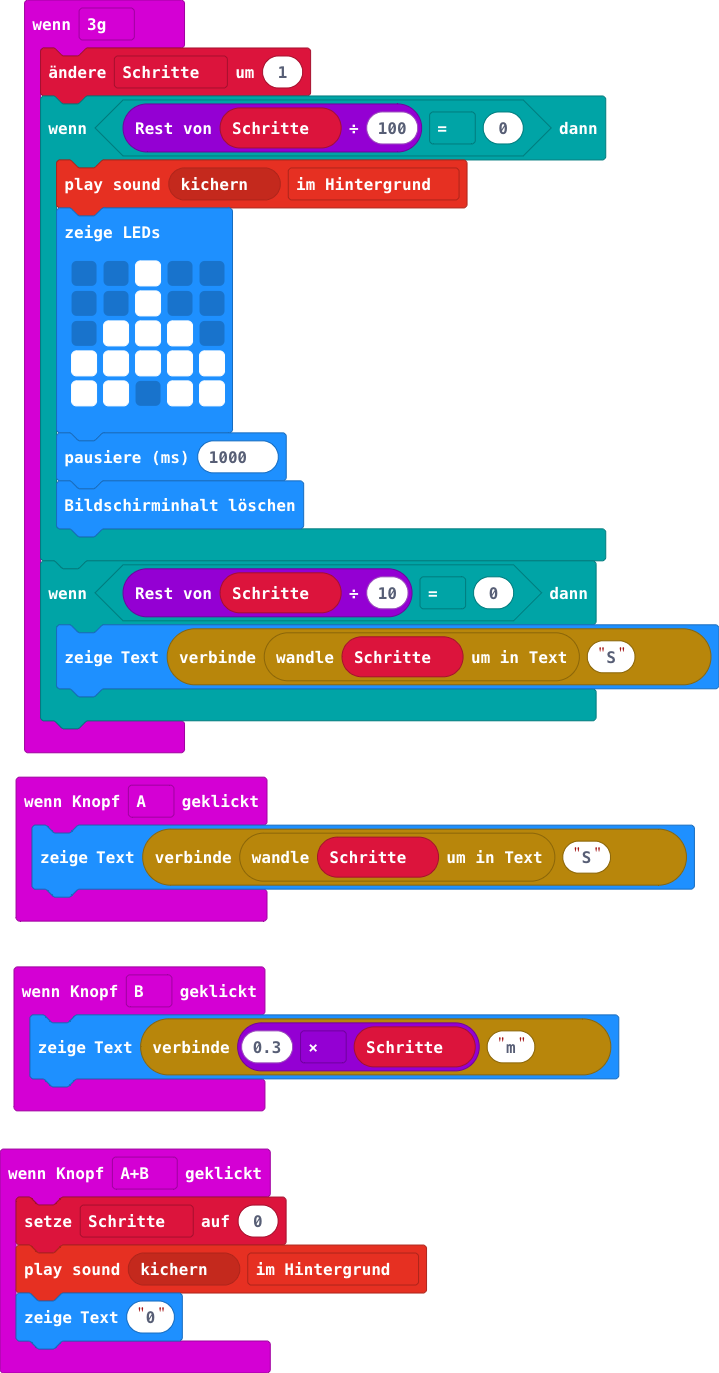
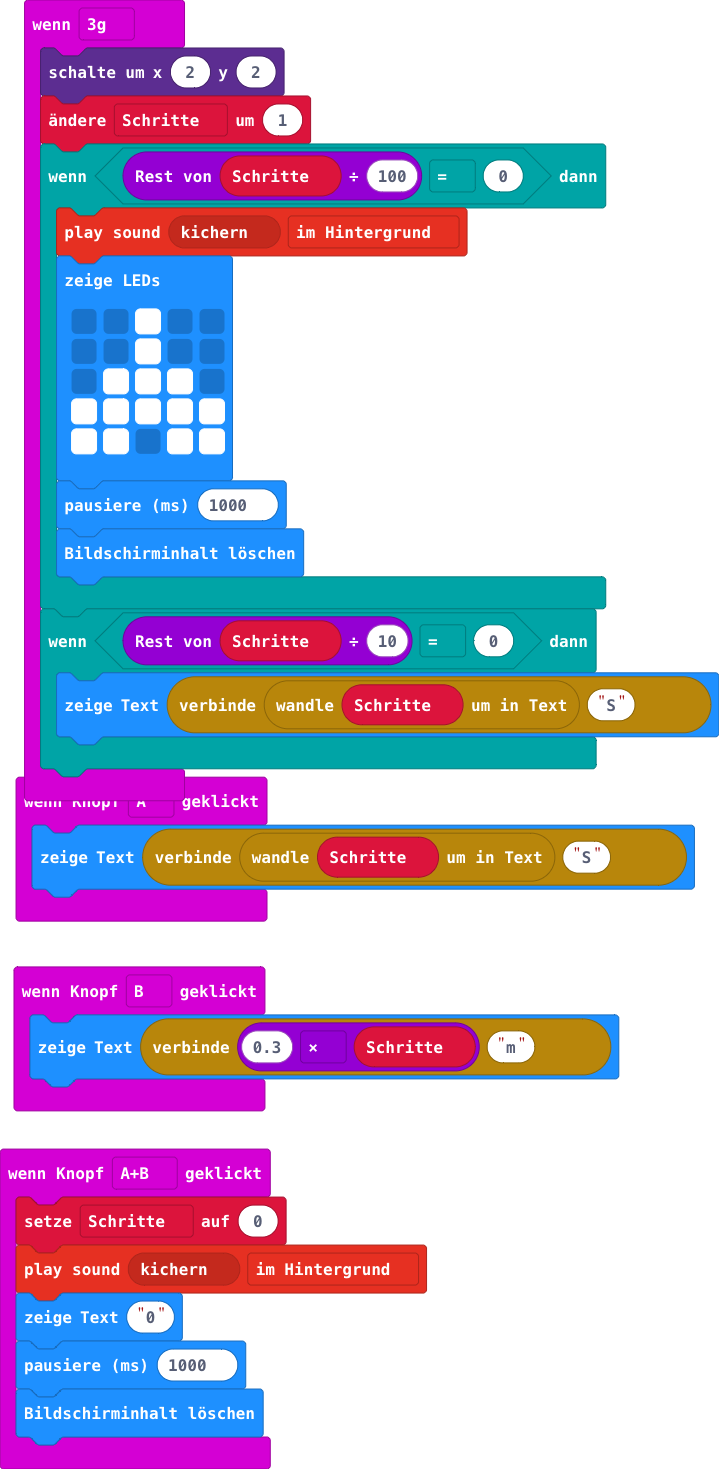
Aktualisiere main.blocks, main.ts

diff --git a/main.ts b/main.ts
@@ -6,11 +6,14 @@ input.onButtonPressed(Button.AB, function () {
     Schritte = 0
     music.playSoundEffect(music.builtinSoundEffect(soundExpression.giggle), SoundExpressionPlayMode.InBackground)
     basic.showString("0")
+    basic.pause(1000)
+    basic.clearScreen()
 })
 input.onButtonPressed(Button.B, function () {
     basic.showString("" + 0.3 * Schritte + "m")
 })
 input.onGesture(Gesture.ThreeG, function () {
+    led.toggle(2, 2)
     Schritte += 1
     if (Schritte % 100 == 0) {
         music.playSoundEffect(music.builtinSoundEffect(soundExpression.giggle), SoundExpressionPlayMode.InBackground)
